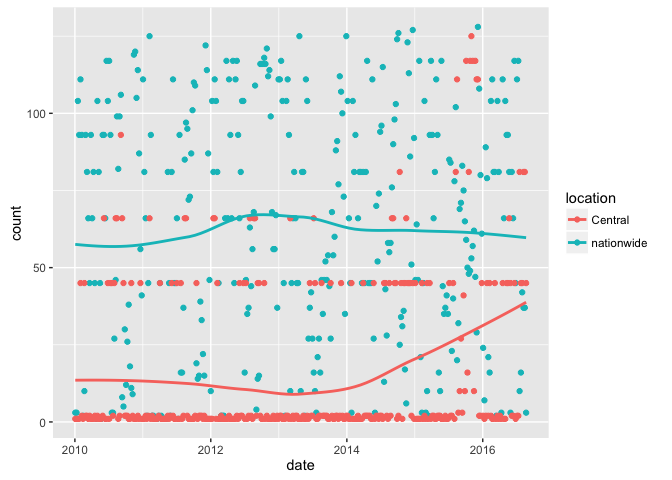
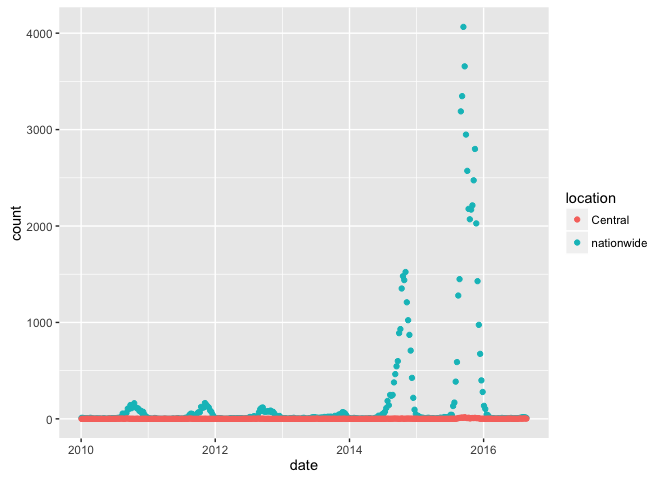
updates to blog post.

diff --git a/_posts/2016-09-01-epidata-api.md b/_posts/2016-09-01-epidata-api.md
@@ -7,8 +7,8 @@ comments: True
 
 This week I attended a workshop at the CDC about last year's [FluSight challenge](https://predict.phiresearchlab.org/flu/index.html), a competition that scores weekly real-time predictions about the course of the influenza season. They are planning another round this year and are hoping to increase the number of teams particiating. Stay tuned to [this site](https://predict.phiresearchlab.org/flu/index.html) for more info.
 
-Here's a teaser of one of the images that we can make using public Wikipedia data from this API: 
-<img class="img-responsive" width="450" src="https://reichlab.github.io/images/blog-figs/wiki-data.png">
+Here's a teaser of the data that you can also interactively explore on the [EpiVis site](http://delphi.midas.cs.cmu.edu/epivis/epivis.html) website:
+<img class="img-responsive" width="600" src="https://reichlab.github.io/images/blog-figs/epivis.png">
 
 <!--more-->
 
@@ -46,18 +46,16 @@ The above command should pull data down into your current session, but it will b
 ``` r
 df <- data.frame(matrix(unlist(res$epidata), nrow=length(res$epidata), byrow=T))
 colnames(df) <- names(res$epidata[[1]])[!is.null(res$epidata[[1]])]
-df$count <- as.numeric(df$count)
+df$count <- as.numeric(as.character(df$count))
 df$year <- as.numeric(substr(df$epiweek, 0, 4))
 df$week <- as.numeric(substr(df$epiweek, 5, 6))
 df$date <- MMWRweek2Date(MMWRyear = df$year, MMWRweek = df$week)
 ```
 
-Note the use of the `MMWRweek2Date()` function that gives us a date column in our data frame.
-
-And here is a plot of the resulting data. Pretty noisy, but interesting to look at nonetheless.
+Note the use of the `MMWRweek2Date()` function that gives us a date column in our data frame. And here is a plot of the resulting data. 
 
 ``` r
-ggplot(df, aes(x=date, y=count, color=location)) + geom_point() + geom_smooth(se=FALSE)
+ggplot(df, aes(x=date, y=count, color=location)) + geom_point() + scale_y_log10()
 ```
 
 ![](https://reichlab.github.io/images/blog-figs/nidss-data.png)
@@ -72,7 +70,7 @@ res <- Epidata$wiki(articles=list("influenza", "common_cold", "cough"),
                     epiweeks=list(Epidata$range(201101, 201553)))
 df <- data.frame(matrix(unlist(res$epidata), nrow=length(res$epidata), byrow=T))
 colnames(df) <- names(res$epidata[[1]])[!is.null(res$epidata[[1]])]
-df$count <- as.numeric(df$count)
+df$count <- as.numeric(as.character(df$count))
 df$year <- as.numeric(substr(df$epiweek, 0, 4))
 df$week <- as.numeric(substr(df$epiweek, 5, 6))
 df$date <- MMWRweek2Date(MMWRyear = df$year, MMWRweek = df$week)

diff --git a/_drafts/epidata-api-sandbox.md b/_drafts/epidata-api-sandbox.md
@@ -38,7 +38,7 @@ The above command should pull data down into your current session, but it will b
 ``` r
 df <- data.frame(matrix(unlist(res$epidata), nrow=length(res$epidata), byrow=T))
 colnames(df) <- names(res$epidata[[1]])[!is.null(res$epidata[[1]])]
-df$count <- as.numeric(df$count)
+df$count <- as.numeric(as.character(df$count))
 df$year <- as.numeric(substr(df$epiweek, 0, 4))
 df$week <- as.numeric(substr(df$epiweek, 5, 6))
 df$date <- MMWRweek2Date(MMWRyear = df$year, MMWRweek = df$week)
@@ -49,7 +49,7 @@ Note the use of the `MMWRweek2Date()` function that gives us a date column in ou
 And here is a plot of the resulting data. Pretty noisy, but interesting to look at nonetheless.
 
 ``` r
-ggplot(df, aes(x=date, y=count, color=location)) + geom_point() + geom_smooth(se=FALSE)
+ggplot(df, aes(x=date, y=count, color=location)) + geom_point()
 ```
 
 ![](epidata-api-sandbox_files/figure-markdown_github/plot-1.png)
@@ -64,7 +64,7 @@ res <- Epidata$wiki(articles=list("influenza", "common_cold", "cough"),
                     epiweeks=list(Epidata$range(201101, 201553)))
 df <- data.frame(matrix(unlist(res$epidata), nrow=length(res$epidata), byrow=T))
 colnames(df) <- names(res$epidata[[1]])[!is.null(res$epidata[[1]])]
-df$count <- as.numeric(df$count)
+df$count <- as.numeric(as.character(df$count))
 df$year <- as.numeric(substr(df$epiweek, 0, 4))
 df$week <- as.numeric(substr(df$epiweek, 5, 6))
 df$date <- MMWRweek2Date(MMWRyear = df$year, MMWRweek = df$week)
